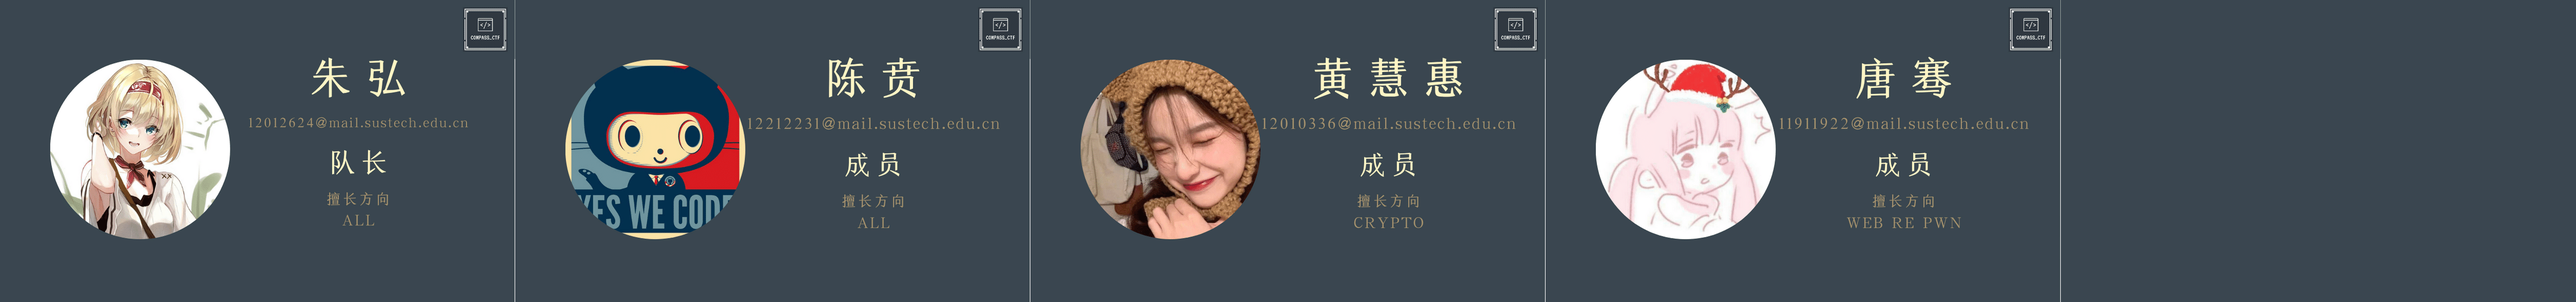
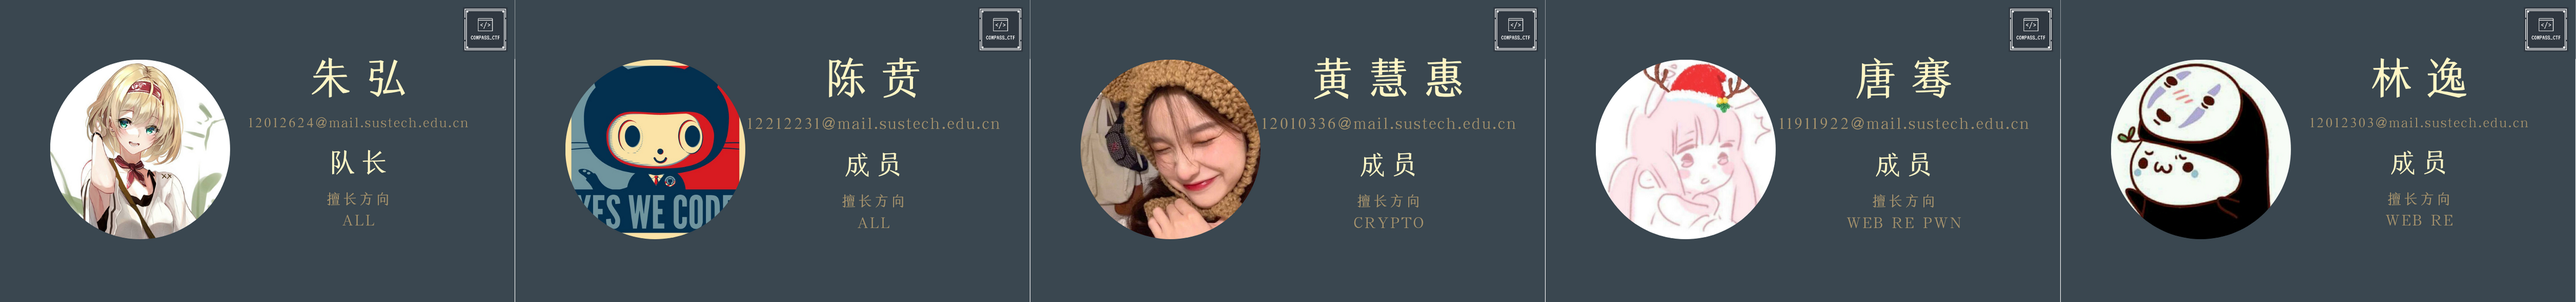
add meeting notes

diff --git a/docs/Meeting/CTF Week Meeting 2023-02-16.md b/docs/Meeting/CTF Week Meeting 2023-02-16.md
@@ -1,0 +1,89 @@
+# CTF Week Meeting 2023-02-16
+
+Welcome back to the university. We are going to have our first training this semester in Feb. 19th. The location is 551 Meeting Room, Southern Tower of Engineering Department. Topics are listed below.
+
+## Work progress tracking
+
+1. <u>COMPASS CTF 2022 - 80%</u>
+2. <u>Topic: CTF combined with research - 5%</u>
+3. Multi-platform promotion of COMPASS CTF - 20%
+4. New Platform GZCTF - 43%
+5. Wiki page content adjustment - 20%
+6. CTFtime program: play CTF and sharing - 13%
+7. New Member Recruitment - 0%
+8. Ande Cup CTF game - 13%
+9. Remedial content session - 0%
+10. <u>2023 spring training schedule - 100%</u>
+11. <u>Xihulunjian reproduction environment - 50%</u>
+
+## What we discussed this week
+
+1. COMPASS CTF 2022 Winners and Prizes.
+2. CTF-Related Research Components.
+3. 2023 Spring Training Schedule.
+4. Upcoming events.
+
+### 0x1. COMPASS CTF 2022 Winners and Prizes
+
+After the CTF, if you are a student in SUSTech, we would have some prizes for top players.
+
+- 1st: Respberry Pi 4B Keyboard, and other prizes below.
+- 2nd-3rd: SSD-USB drive with penetration toolkits, and other prizes below.
+- 4th-8th: COMPASS CTF Coat, and COMPASS lab stickers.
+
+And for the top 5 players who haven't been in the CTF team / COMPASS lab, we would glad to invite you to join us.
+
+| Rank | ID          | Score |
+| ---- | ----------- | ----- |
+| 1    | Cerulime    | 1373  |
+| 2    | Ben         | 1225  |
+| 3    | cerium      | 825   |
+| 4    | Trust_04zh  | 675   |
+| 5    | nobody      | 575   |
+| 6    | CharlottE67 | 350   |
+| 7    | 12012430    | 275   |
+| 8    | yxx         | 200   |
+
+The prizes are being customized and will be given to the winners offline before the second week of training.
+
+### 0x2. CTF-Related Research Components
+
+I will continue to communicate with my colleagues in the COMPASS lab to try to integrate CTF with academic research. Currently, through communication with some CTF players, cryptography is the most closely integrated link between CTF and research. An example of this is the research described below.
+
+https://blog.trailofbits.com/2022/11/29/specialized-zero-knowledge-proof-failures/
+
+Fuzzing is likewise a relatively hot topic in research, and the following information is relevant.
+
+https://blog.trailofbits.com/2022/12/08/hybrid-echidna-fuzzing-optik-maat/
+
+### 0x3. 2023 Spring Training Schedule
+
+| Topic                               | Category     | Attachment                                                   | Date              |
+| ----------------------------------- | ------------ | ------------------------------------------------------------ | ----------------- |
+| Network Sniff: Introduction         | Web          | https://ithelp.ithome.com.tw/articles/10245117<br />https://ithelp.ithome.com.tw/articles/10245119<br />https://ithelp.ithome.com.tw/articles/10246315<br />https://ithelp.ithome.com.tw/articles/10246917 | Feb. 19th, 2023   |
+| Network Sniff: Multi-platform       | Web          | https://frida.re/docs/android/                               | Feb. 26th, 2023   |
+| Network Scan                        | Web          | https://websec.readthedocs.io/zh/latest/index.html           | March. 5th, 2023  |
+| Ethereum and Solidity: Introduction | Blockchain   | http://www.snowywar.top/?p=3848                              | March. 12th, 2023 |
+| Ethereum and Solidity: Practice     | Blockchain   | http://www.snowywar.top/?p=3848                              | March. 19th, 2023 |
+| IoT Security                        | IoT          | https://paper.seebug.org/2048/                               | March. 26th, 2023 |
+| PWN: Stack                          | PWN          | https://ir0nstone.gitbook.io/notes/                          | April. 2nd, 2023  |
+| PWN: Heap                           | PWN          | https://ir0nstone.gitbook.io/notes/                          | April. 9th, 2023  |
+| PWN: Kernel                         | PWN          | https://ir0nstone.gitbook.io/notes/<br />https://paper.seebug.org/2036/ | April. 16th, 2023 |
+| Reverse Enginnering                 | RE           | https://0xinfection.github.io/reversing/                     | April. 23th, 2023 |
+| Real-World Cryptography             | Cryptography | https://vitalik.ca/index.html                                | April. 30th, 2023 |
+| Real-World Security: Penetration    | RW           | https://www.ired.team/                                       | May. 7th, 2023    |
+| Real-World Security: Malware        | RW           | https://www.ired.team/                                       | May. 14th, 2023   |
+| Real-World Security: Summary        | RW           | https://www.ired.team/                                       | May. 21st, 2023   |
+
+### 0x4. Upcoming events
+
+This weekend we would participate in the `pbctf`, which is one of the top events. Another competition is also interesting.
+
+| Competition Name      | Link                      | Start Time       | End Time         | Require pre-register |
+| --------------------- | ------------------------- | ---------------- | ---------------- | -------------------- |
+| pbctf 2023            | https://ctf.perfect.blue/ | 2023-02-18 22:00 | 2023-02-20 10:00 | False                |
+| HackTM CTF Quals 2023 | https://ctf.hacktm.ro/    | 2023-02-18 20:00 | 2023-02-19 20:00 | False                |
+
+## Wrap-up
+
+The prizes of COMPASS CTF 2022 are being customized and will be given to the winners offline before the **second week of training**. The time schedule of the training this semester is published.

diff --git a/docs/Training/Schedule/2023Spring.md b/docs/Training/Schedule/2023Spring.md
@@ -30,6 +30,23 @@ I will not recruit too many new members in this semester, and the final recruitm
 
 The number of recruits will be used to make up for the number of members who will graduate after this semester. The spring 2023 offline training and competition questions will be updated on this page.
 
+| Topic                               | Category     | Attachment                                                   | Date              |
+| ----------------------------------- | ------------ | ------------------------------------------------------------ | ----------------- |
+| Network Sniff: Introduction         | Web          | https://ithelp.ithome.com.tw/articles/10245117<br />https://ithelp.ithome.com.tw/articles/10245119<br />https://ithelp.ithome.com.tw/articles/10246315<br />https://ithelp.ithome.com.tw/articles/10246917 | Feb. 19th, 2023   |
+| Network Sniff: Multi-platform       | Web          | https://frida.re/docs/android/                               | Feb. 26th, 2023   |
+| Network Scan                        | Web          | https://websec.readthedocs.io/zh/latest/index.html           | March. 5th, 2023  |
+| Ethereum and Solidity: Introduction | Blockchain   | http://www.snowywar.top/?p=3848                              | March. 12th, 2023 |
+| Ethereum and Solidity: Practice     | Blockchain   | http://www.snowywar.top/?p=3848                              | March. 19th, 2023 |
+| IoT Security                        | IoT          | https://paper.seebug.org/2048/                               | March. 26th, 2023 |
+| PWN: Stack                          | PWN          | https://ir0nstone.gitbook.io/notes/                          | April. 2nd, 2023  |
+| PWN: Heap                           | PWN          | https://ir0nstone.gitbook.io/notes/                          | April. 9th, 2023  |
+| PWN: Kernel                         | PWN          | https://ir0nstone.gitbook.io/notes/<br />https://paper.seebug.org/2036/ | April. 16th, 2023 |
+| Reverse Enginnering                 | RE           | https://0xinfection.github.io/reversing/                     | April. 23th, 2023 |
+| Real-World Cryptography             | Cryptography | https://vitalik.ca/index.html                                | April. 30th, 2023 |
+| Real-World Security: Penetration    | RW           | https://www.ired.team/                                       | May. 7th, 2023    |
+| Real-World Security: Malware        | RW           | https://www.ired.team/                                       | May. 14th, 2023   |
+| Real-World Security: Summary        | RW           | https://www.ired.team/                                       | May. 21st, 2023   |
+
 ## Summary
 
 Contact me: liz33@mail.sustech.edu.cn

diff --git a/docs/member.md b/docs/member.md
@@ -19,3 +19,5 @@ Previous members of COMPASS CTF:
 ![5](assets/5_hd.png)
 
 ![6](assets/6_hd.png)
+
+![6](assets/7_hd.png)
